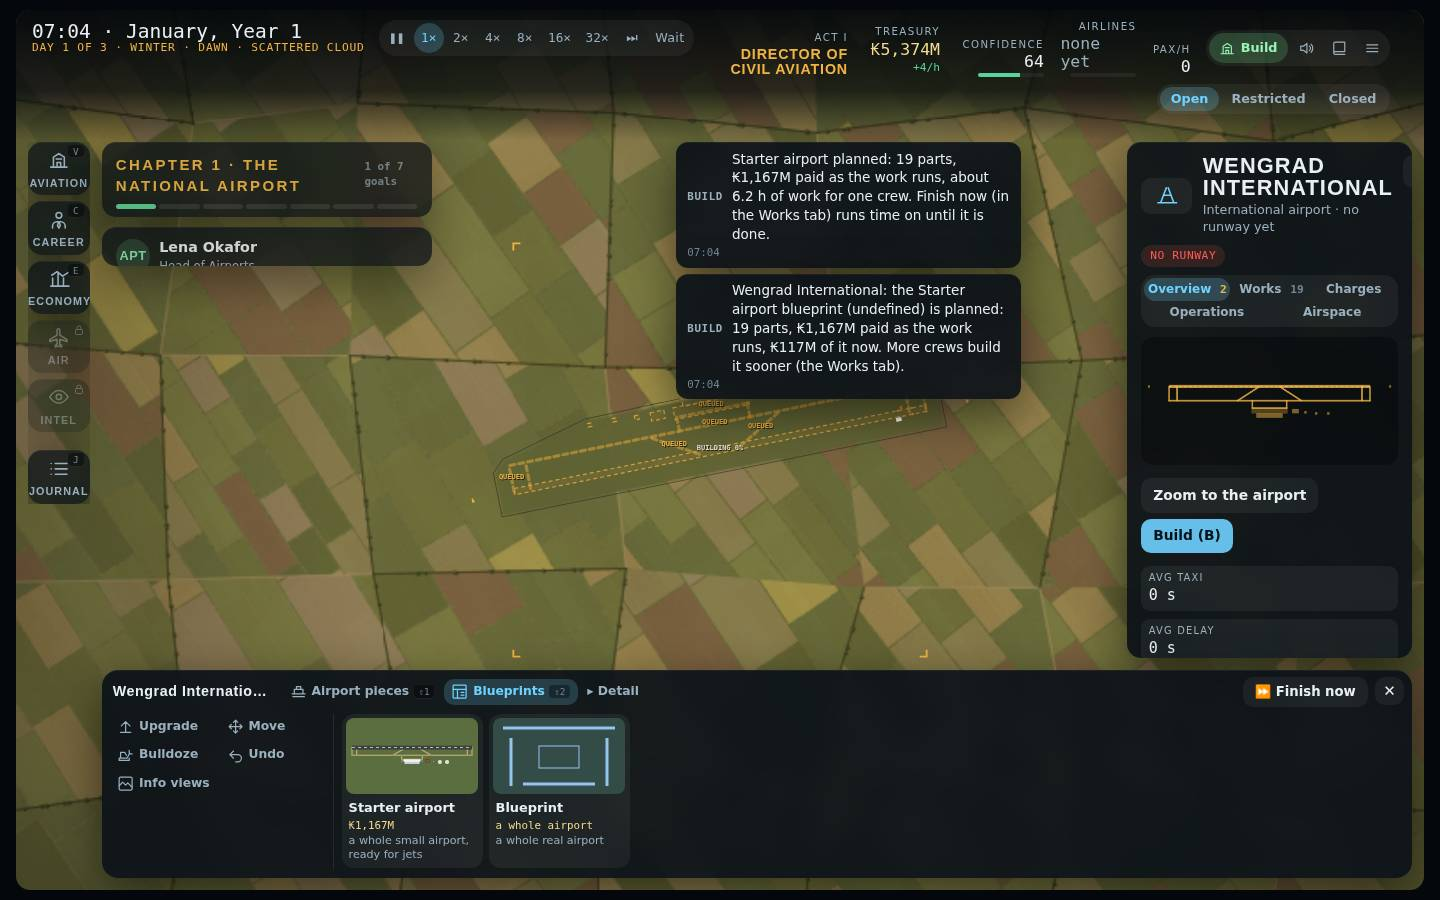
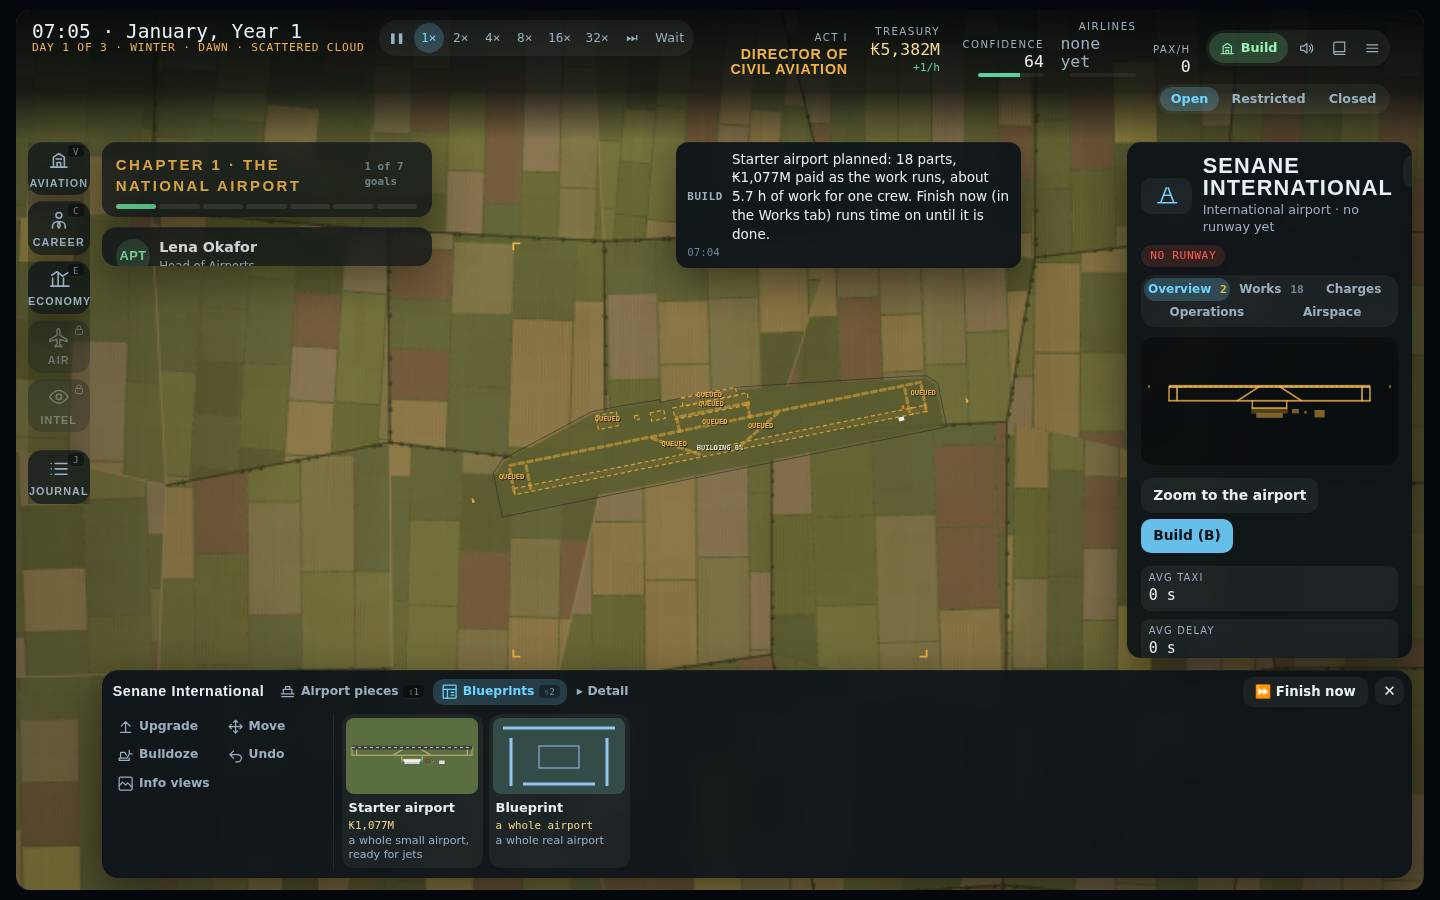
Round 1: the founding road test follows the survey's whole price; fresh playthrough shots and numbers
Claude-Session: https://claude.ai/code/session_01MzSGhkf9gBimT6QR4HoY7d

diff --git a/tests/run.js b/tests/run.js
@@ -1536,7 +1536,9 @@ test('airport life: a new airport gets an access road to its city, and its cost 
   const b0 = S.budget, w0 = S.econ.works.length, sv = IC.foundSurvey(S, t.p.x, t.p.y, IC.PREVAIL);
   const ap = IC.foundAirport(S, t.p.x, t.p.y, IC.PREVAIL);
   assert(ap, 'could not found the airport');
-  const paid = b0 - S.budget - sv.cost;
+  // (round 1) the survey prices the road: Found takes the site and the road it said, nothing more
+  const paid = b0 - S.budget - sv.site;
+  assert(sv.road && Math.abs(sv.cost - sv.site - sv.road.cost) < 0.01 && Math.abs(b0 - S.budget - sv.cost) < 0.01, `the survey said ${U.money(sv.cost)}, Found took ${U.money(b0 - S.budget)}`);
   const w = S.econ.works.find(x => x.apt === ap.id);
   assert(w && S.econ.works.length === w0 + 1, 'no access road works started');
   assert(ap.land && ap.land.access && ap.land.access.cost > 0 && S.logs.some(l => /access road/.test(l.text || l.msg || '') && /₭/.test(l.text || l.msg || '')), 'the access road and its cost are not reported');

diff --git a/docs/focus/round-1.md b/docs/focus/round-1.md
@@ -11,13 +11,13 @@ Screenshots are in `docs/focus/round-1/`:
 
 | Moment | Before (playtest 1) | After: Starter blueprint | After: piece by piece |
 | --- | --- | --- | --- |
-| Airport founded | about 9 clicks, 2:00 | 11 clicks, 0:41 | 11 clicks, 0:39 |
-| First runway ordered | about 17 clicks, 2:30 | 16 clicks, 0:50 (with the whole airport) | 12 clicks, 0:41 (Build on the surveyed runway) |
-| **Complete starter airport ordered** | about 45 clicks, 7:00 (part by part) | **16 clicks, 0:50** | **19 clicks, 0:55** (runway, terminal, services) |
-| Airport open for business | 4 h 18 min of game time, 7 real minutes | 17 clicks, 1:08, with Finish now (14 s of real time) | 23 clicks, 1:13 (Finish now: 9 s) |
-| First landing | 13:00, after 3 diversions | 21 clicks, 1:28, 0 diversions | 23 clicks, 1:48, 0 diversions |
-| Chapter 2 | 14:00 | 1:28 | 1:48 |
-| Wait | stopped 10 times in a row by one incident | | 3 stops in 40 game hours, each a different event the player can act on: a deal at risk, an offer, a deal over |
+| Airport founded | about 9 clicks, 2:00 | 11 clicks, 0:37 | 11 clicks, 0:39 |
+| First runway ordered | about 17 clicks, 2:30 | 16 clicks, 0:46 (with the whole airport) | 12 clicks, 0:41 (Build on the surveyed runway) |
+| **Complete starter airport ordered** | about 45 clicks, 7:00 (part by part) | **16 clicks, 0:46** | **19 clicks, 0:55** (runway, terminal, services) |
+| Airport open for business | 4 h 18 min of game time, 7 real minutes | 17 clicks, 1:00, with Finish now (10 s of real time) | 23 clicks, 1:13 (Finish now: 9 s) |
+| First landing | 13:00, after 3 diversions | 19 clicks, 1:30, 0 diversions | 23 clicks, 1:48, 0 diversions |
+| Chapter 2 | 14:00 | 1:30 | 1:48 |
+| Wait | stopped 10 times in a row by one incident | 4 stops in 101 game hours: a deal at risk, an offer, a deal over, February begins | 3 stops in 40 game hours: a deal at risk, an offer, a deal over |
 
 How to read the counts:
 - Clicks include the 7 clicks that close the opening tips and cards. A player who skips the tips saves those.
@@ -71,7 +71,7 @@ How to read the counts:
   - a terminal with 8 gates and 1,060 passengers an hour;
   - a tower, a fire station and a fuel farm.
 
-  It costs ₭1,167M, all in one plan. On a new airport it lies on the surveyed runway. With a runway already planned it is built round that runway: it adds the parallel taxiway only if there is none, and links to it if there is.
+  It costs ₭1,077M, all in one plan. On a new airport it lies on the surveyed runway. With a runway already planned it is built round that runway: it adds the parallel taxiway only if there is none, and links to it if there is.
 - **Detail.** The single parts are folded under **▸ Detail**, with pavement, width, lights and zone still there. Pieces use sensible defaults: concrete, lit, the zone from what the piece is. Terminals keep one choice, the gate size.
 - **The switch.** `IC.FOCUS = { pieces: true }` in `core.js` is the one switch. With `false` the old bar comes back as it was.
 - **Tests:**
@@ -102,18 +102,18 @@ How to read the counts:
 
   Landing systems and radars belong there and are exempt. Test: *a building inside a runway strip is warned about on the plan and on the airport, with the fix*.
 - **Every finished piece shows what it changed.** The change rises over it on the map for six seconds, for example "+26 MOVEMENTS AN HOUR", "+8 STANDS", "+1,064 PASSENGERS AN HOUR" or "FREIGHTER CAN LAND". Shot: `10-built.jpg`. The runway and terminal "opens" cards still give before → after.
-- **The first flight is offered when the airport opens.** The "Open for business" card comes as soon as a runway, a terminal, fire cover and fuel are built. In the playthrough that was 18 s after Finish now was pressed.
-- **Finish now.** It sits on the build bar and in the Works tab. Time runs at three times Wait's speed until every work at the airport is done, then stops. It is not stopped by goals that its own works tick off, but stops for anything that needs the player, or when the works run out of money. The six hours of the Starter's works took 14 real seconds.
+- **The first flight is offered when the airport opens.** The "Open for business" card comes as soon as a runway, a terminal, fire cover and fuel are built. In the playthrough it came as Finish now ended.
+- **Finish now.** It sits on the build bar and in the Works tab. Time runs at three times Wait's speed until every work at the airport is done, then stops. It is not stopped by goals that its own works tick off, but stops for anything that needs the player, or when the works run out of money. The six hours of the Starter's works took 10–14 real seconds.
 - **Construction stays watchable.** The stages are unchanged: survey pegs, earthworks with lorries, paving, markings and lights.
 
 ## The checklist
 
 | # | Item | Met? | Evidence |
 | --- | --- | --- | --- |
-| 2 | Within 5 minutes and about 30 clicks, a working first airport that looks real: runway, taxiways, terminal with stands, tower, fire, fuel | **Met** | The Starter path ordered it in 16 clicks and 50 s; it opened in 17 clicks and 68 s. Piece by piece: 19 clicks and 55 s to order, 23 clicks and 73 s to open.
+| 2 | Within 5 minutes and about 30 clicks, a working first airport that looks real: runway, taxiways, terminal with stands, tower, fire, fuel | **Met** | The Starter path ordered it in 16 clicks and 46 s; it opened in 17 clicks and 60 s. Piece by piece: 19 clicks and 55 s to order, 23 clicks and 73 s to open.
  Shots `12-airport.jpg` and `13-terminal.jpg`: an 8-gate terminal with its apron, taxilane, kerb loop and car park, the tower, fire station and fuel farm, the runway with its taxiways. |
 | 3 | Every placement snaps where meant, shows price and build time, builds with one obvious action; Esc or right-click always cancels; nothing crooked, floating or unconnected without the game saying so | **Mostly met** | Pieces face the runway and join the nearest taxiway, with the links drawn. One Build button shows the price; the "planned" message says how long the work takes for the crews there. Esc and right-click cancel, and undo takes back a piece. A building in the strip is now said. Not yet: the piece's ghost does not show its build time before the click (only after), and terminal pieces do not snap to a set distance from the parallel taxiway (they join it from wherever they are put). |
-| 4 | Construction worth watching, skippable without minutes of real waiting | **Met** | The stages are drawn as before, queued work is now visible, and Finish now runs the Starter's 6 game hours in 14 real seconds (`09-construction.jpg`). |
+| 4 | Construction worth watching, skippable without minutes of real waiting | **Met** | The stages are drawn as before, queued work is now visible, and Finish now runs the Starter's 6 game hours in 10–14 real seconds (`09-construction.jpg`). |
 | 7 | Everything built visibly changes something | **Partly met** | Movements an hour, stands, passengers an hour and the largest aircraft rise over each finished part (`10-built.jpg`). The airport opens as soon as it can take jets. Not yet: the terminal "filling with people" and services at work (fuel, fire) are Round 2's. |
 
 ## Tests
@@ -132,7 +132,8 @@ New tests in `tests/run.js` (section "round 1"):
 ## What is left, and what needs the owner
 
 - **Feel on real hardware.** The playthrough ran in software-rendered Chromium. Wheel steps and drag placing should be tried with a real mouse and touchpad.
-- **The Starter's size is a choice.** It is a single 3 km runway with 8 gates for ₭1,167M. That is about a fifth of the Career's ₭5,500M, which leaves room for the second terminal or pier that Chapter 2's deals will ask for. A bigger "National airport" blueprint (two terminals, a cargo area) could be offered later.
+- **The Starter's size is a choice.** It is a single 3 km runway with 8 gates for ₭1,077M. That is about a fifth of the Career's ₭5,500M, which leaves room for the second terminal or pier that Chapter 2's deals will ask for. A bigger "National airport" blueprint (two terminals, a cargo area) could be offered later.
+- **A hangar in the Starter?** In both Wait runs the flag carrier's deal ended within two game days of opening, because nobody built the hangar it needs. Chapter 2 asks for one, and the deal allows a day. The Starter has no hangar. Adding one would make the first deal safe, but it would also tick one more Chapter 2 goal in advance. This is the owner's call.
 - **Snapping.** Pieces are placed freely and joined by links. A snap that puts a terminal exactly 100 m beyond the parallel taxiway would make layouts tidier. Round 3 (problems on the map) is a good place for it.
 - **More room on screen.** The message feed in the middle of the screen still covers the airport while building; the inspector now steps aside. Round 3 plans fewer panels.
 - **The old tips** still talk about "the build bar's tabs (1–0)". Round 5 rewrites the first ten minutes' words.
